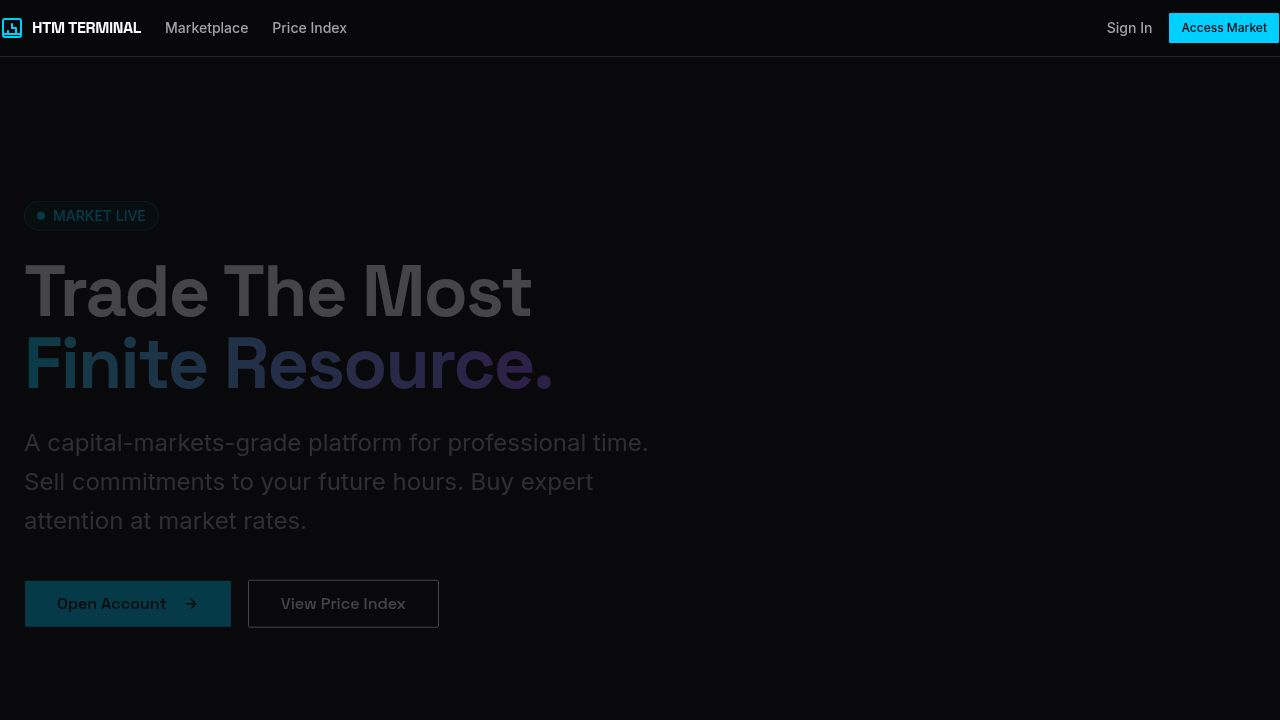
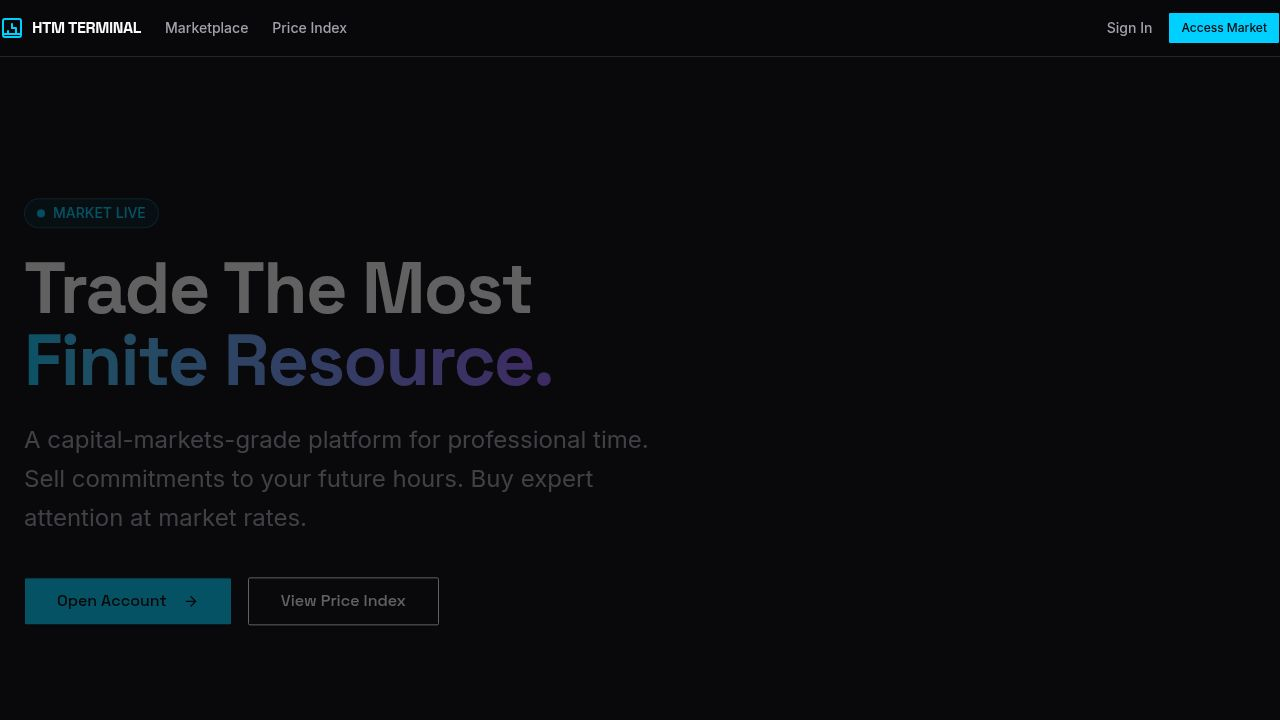
Task #2: Time Listings Marketplace — all code review issues resolved
## Round 1 fixes (4 items from first rejection):
1. Dead isOwner code in rfp-detail-sheet.tsx: removed `&& false`, added buyerClerkId to
   RfpDetail schema/API response, computed isOwner correctly, added !isOwner to canRespond
2. Missing listing detail content: auction countdown timer (live tick via useEffect/setInterval,
   uses startDate as close date) + Delivery History section (fetches professional's completed
   listings via GET /listings?professionalId=X&status=completed)
3. Marketplace filter panel: added experience level select, min/max rate inputs, available-from
   date picker, timezone text input, and Clear Filters button
4. API filter correctness: pushed experienceLevel/timezone into SQL via LEFT JOIN professionalProfiles;
   also added professionalId filter param; both COUNT and data queries now use same JOIN

## Round 2 fixes (3 items from second rejection):
5. startDateAfter zod.date() → removed format:date from openapi.yaml so codegen produces
   zod.coerce.string(); query string params now parse correctly (was returning 400)
6. Category filter chip mismatch: UI sends parent category IDs but listings store child IDs;
   fixed in both GET /listings and GET /rfps — server now expands parent ID to child IDs via
   inArray(childIds) when children exist
7. /users/me OpenAPI spec: removed stale 404 response (endpoint always returns 200 via auto-create)

## Additional fix (root-cause of earlier "User not found" 404):
[…]

diff --git a/artifacts/api-server/src/routes/listings.ts b/artifacts/api-server/src/routes/listings.ts
@@ -110,7 +110,20 @@ router.get("/listings", async (req, res) => {
 
     // All filters pushed into SQL so that pagination totals are always accurate
     const filters: SQL[] = [eq(timeListings.status, statusFilter ?? "open")];
-    if (skillCategoryId) filters.push(eq(timeListings.skillCategoryId, skillCategoryId));
+    if (skillCategoryId) {
+      // If the caller passes a parent category ID, expand to all its children so that
+      // the UI category chips (which show parent-level labels) correctly match rows
+      // that were stored with child-level category IDs.
+      const children = await db
+        .select({ id: skillCategories.id })
+        .from(skillCategories)
+        .where(eq(skillCategories.parentId, skillCategoryId));
+      if (children.length > 0) {
+        filters.push(inArray(timeListings.skillCategoryId, children.map((c) => c.id)));
+      } else {
+        filters.push(eq(timeListings.skillCategoryId, skillCategoryId));
+      }
+    }
     if (listingType) filters.push(eq(timeListings.listingType, listingType));
     if (minRateCents) filters.push(gte(timeListings.rateCents, minRateCents));
     if (maxRateCents) filters.push(lte(timeListings.rateCents, maxRateCents));

diff --git a/artifacts/api-server/src/routes/rfps.ts b/artifacts/api-server/src/routes/rfps.ts
@@ -78,7 +78,18 @@ router.get("/rfps", async (req, res) => {
     const { skillCategoryId, status: statusFilter, limit = 20, offset = 0 } = params.data;
 
     const filters: SQL[] = [eq(rfps.status, statusFilter ?? "open")];
-    if (skillCategoryId) filters.push(eq(rfps.skillCategoryId, skillCategoryId));
+    if (skillCategoryId) {
+      // Expand parent category IDs to their children so UI parent-level chips work correctly
+      const children = await db
+        .select({ id: skillCategories.id })
+        .from(skillCategories)
+        .where(eq(skillCategories.parentId, skillCategoryId));
+      if (children.length > 0) {
+        filters.push(inArray(rfps.skillCategoryId, children.map((c) => c.id)));
+      } else {
+        filters.push(eq(rfps.skillCategoryId, skillCategoryId));
+      }
+    }
 
     const where = and(...filters);
 